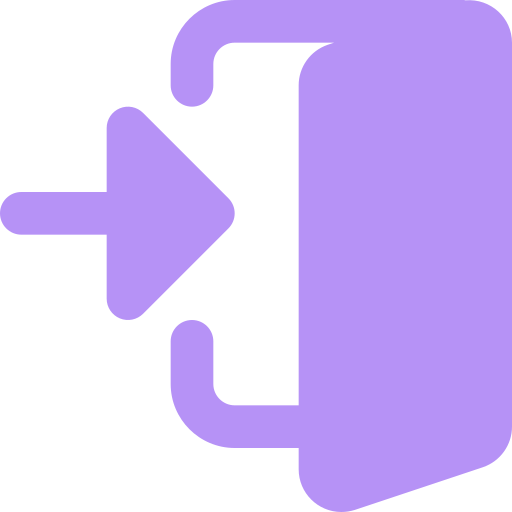
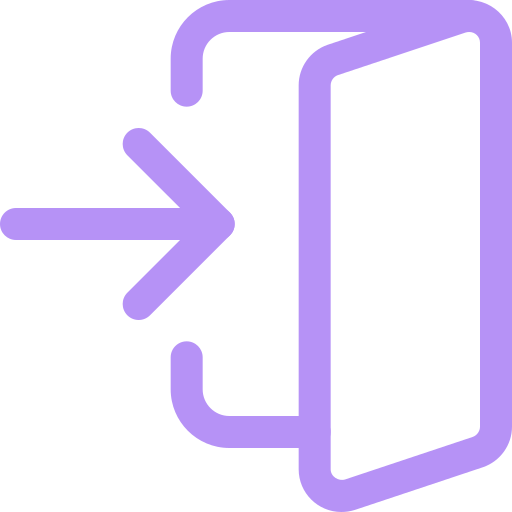
Functionality Bug (Profile Picture Leaking Across Student Accounts) Visual Adjustment (Removed "Verified" Green Pill)

diff --git a/student-submissions.html b/student-submissions.html
@@ -271,23 +271,17 @@
           </div>
         </div>
 
-        <!-- VERIFIED APPLICANT IDENTITY (Redesigned Modern Structured Layout) -->
+        <!-- APPLICANT IDENTITY (Redesigned Modern Structured Layout) -->
         <div class="sub-identity-card">
-          <!-- Identity Header: Avatar + Student Name + Verified Pill -->
-          <div style="display: flex; align-items: center; justify-content: space-between; gap: 12px; margin-bottom: 14px; padding-bottom: 12px; border-bottom: 1px solid var(--border-color);">
-            <div style="display: flex; align-items: center; gap: 12px; min-width: 0;">
-              <div id="modal-sub-student-avatar" style="width: 42px; height: 42px; border-radius: 50%; background: rgba(105, 65, 198, 0.12); color: #6941C6; display: flex; align-items: center; justify-content: center; font-weight: 700; font-size: 14px; flex-shrink: 0; overflow: hidden; border: 1.5px solid rgba(105, 65, 198, 0.25);">
-                ST
-              </div>
-              <div style="min-width: 0;">
-                <span style="font-size: 10.5px; font-weight: 700; text-transform: uppercase; letter-spacing: 0.6px; color: var(--text-secondary); display: block;">Verified Applicant Identity</span>
-                <h4 id="modal-sub-student-name" style="margin: 2px 0 0 0; font-size: 15px; font-weight: 700; color: var(--text-primary); white-space: nowrap; overflow: hidden; text-overflow: ellipsis;">Student Scholar</h4>
-              </div>
+          <!-- Identity Header: Avatar + Student Name -->
+          <div style="display: flex; align-items: center; gap: 12px; margin-bottom: 14px; padding-bottom: 12px; border-bottom: 1px solid var(--border-color);">
+            <div id="modal-sub-student-avatar" style="width: 42px; height: 42px; border-radius: 50%; background: rgba(105, 65, 198, 0.12); color: #6941C6; display: flex; align-items: center; justify-content: center; font-weight: 700; font-size: 14px; flex-shrink: 0; overflow: hidden; border: 1.5px solid rgba(105, 65, 198, 0.25);">
+              ST
             </div>
-            <span style="display: inline-flex; align-items: center; gap: 5px; padding: 4px 10px; border-radius: 100px; background: rgba(16, 185, 129, 0.12); color: #10B981; font-size: 11.5px; font-weight: 700; flex-shrink: 0;">
-              <svg width="12" height="12" viewBox="0 0 24 24" fill="none" stroke="currentColor" stroke-width="2.5"><polyline points="20 6 9 17 4 12"></polyline></svg>
-              Verified
-            </span>
+            <div style="min-width: 0;">
+              <span style="font-size: 10.5px; font-weight: 700; text-transform: uppercase; letter-spacing: 0.6px; color: var(--text-secondary); display: block;">Applicant Identity</span>
+              <h4 id="modal-sub-student-name" style="margin: 2px 0 0 0; font-size: 15px; font-weight: 700; color: var(--text-primary); white-space: nowrap; overflow: hidden; text-overflow: ellipsis;">Student Scholar</h4>
+            </div>
           </div>
 
           <!-- Information Grid: 2 columns, aligned, no dots -->

diff --git a/js/main.js b/js/main.js
@@ -329,30 +329,37 @@ function getStudentAvatar(currentEmail) {
     } catch (_) {}
   }
 
-  // 1. Session storage (for immediate changes in current tab)
-  let pic = "";
-  try {
-    pic = sessionStorage.getItem("nexo-student-avatar") || "";
-  } catch (_) {}
-  if (pic) return pic;
+  const loggedEmail = (
+    sessionStorage.getItem("nexo-student-email") ||
+    localStorage.getItem("nexo-student-email") ||
+    ""
+  ).toLowerCase().trim();
+
+  // 1. Session storage (for immediate changes in current tab - ONLY if no email or matches currently logged-in student)
+  if (!email || (loggedEmail && email === loggedEmail)) {
+    try {
+      const pic = sessionStorage.getItem("nexo-student-avatar") || "";
+      if (pic) return pic;
+    } catch (_) {}
+  }
 
   // 2. Email-scoped localStorage keys
   if (email) {
     try {
-      pic =
+      const pic =
         localStorage.getItem("nexo_avatar_" + email) ||
         localStorage.getItem("nexo-student-avatar-" + email) ||
         "";
+      if (pic) return pic;
     } catch (_) {}
-    if (pic) return pic;
   }
 
-  // 3. Global localStorage avatar (only if no email or matches active student settings email)
-  if (!email) {
+  // 3. Global localStorage avatar (ONLY if no email or matches active logged-in student)
+  if (!email || (loggedEmail && email === loggedEmail)) {
     try {
-      pic = localStorage.getItem("nexo-student-avatar") || "";
+      const pic = localStorage.getItem("nexo-student-avatar") || "";
+      if (pic) return pic;
     } catch (_) {}
-    if (pic) return pic;
   }
 
   // 4. Email-scoped student settings in localStorage
@@ -471,15 +478,17 @@ function syncGlobalStudentIdentity() {
 
   if (avatarPic) {
     try {
-      if (!sessionStorage.getItem("nexo-student-avatar")) {
-        sessionStorage.setItem("nexo-student-avatar", avatarPic);
-      }
-      if (!localStorage.getItem("nexo-student-avatar")) {
-        localStorage.setItem("nexo-student-avatar", avatarPic);
-      }
-      if (currentEmail && !localStorage.getItem("nexo_avatar_" + currentEmail)) {
+      sessionStorage.setItem("nexo-student-avatar", avatarPic);
+      localStorage.setItem("nexo-student-avatar", avatarPic);
+      if (currentEmail) {
         localStorage.setItem("nexo_avatar_" + currentEmail, avatarPic);
+        localStorage.setItem("nexo-student-avatar-" + currentEmail, avatarPic);
       }
+    } catch (_) {}
+  } else {
+    try {
+      sessionStorage.removeItem("nexo-student-avatar");
+      localStorage.removeItem("nexo-student-avatar");
     } catch (_) {}
   }
 

diff --git a/js/student.js b/js/student.js
@@ -3411,10 +3411,20 @@ function openSubmissionDetailsModal(app) {
   if (nameEl) nameEl.textContent = sName;
 
   if (avatarEl) {
-    const sPic =
-      app.studentProfilePic ||
-      localStorage.getItem("nexo-student-avatar") ||
-      "";
+    const appEmail = (app.studentEmail || app.email || "").trim().toLowerCase();
+    let sPic = app.studentProfilePic || "";
+
+    if (!sPic && appEmail) {
+      if (typeof window.getStudentAvatar === "function") {
+        sPic = window.getStudentAvatar(appEmail) || "";
+      } else {
+        sPic =
+          localStorage.getItem("nexo_avatar_" + appEmail) ||
+          localStorage.getItem("nexo-student-avatar-" + appEmail) ||
+          "";
+      }
+    }
+
     if (sPic && sPic.trim()) {
       avatarEl.innerHTML = `<img src="${sPic}" alt="${escapeHtml(sName)}" style="width: 100%; height: 100%; border-radius: 50%; object-fit: cover; display: block;">`;
     } else {

diff --git a/js/student-browse.js b/js/student-browse.js
@@ -2008,9 +2008,9 @@ document.addEventListener("DOMContentLoaded", () => {
         (studentSettings && studentSettings.bio) ||
         "";
       const sAvatar =
-        (typeof window.getStudentAvatar === "function" ? window.getStudentAvatar(sEmail) : null) ||
-        sessionStorage.getItem("nexo-student-avatar") ||
-        (studentSettings && studentSettings.profilePicture) ||
+        (sEmail && typeof window.getStudentAvatar === "function" ? window.getStudentAvatar(sEmail) : null) ||
+        (sEmail ? localStorage.getItem("nexo-student-avatar-" + sEmail) : null) ||
+        (studentSettings && (studentSettings.email || "").toLowerCase().trim() === sEmail ? studentSettings.profilePicture : "") ||
         "";
 
       // Build application object

diff --git a/js/student-settings.js b/js/student-settings.js
@@ -801,8 +801,6 @@ document.addEventListener("DOMContentLoaded", () => {
           : null) ||
         (currentEmail ? localStorage.getItem("nexo_avatar_" + currentEmail) : null) ||
         (currentEmail ? localStorage.getItem("nexo-student-avatar-" + currentEmail) : null) ||
-        localStorage.getItem("nexo-student-avatar") ||
-        sessionStorage.getItem("nexo-student-avatar") ||
         "";
       if (fallbackAvatar) {
         settings.profilePicture = fallbackAvatar;
